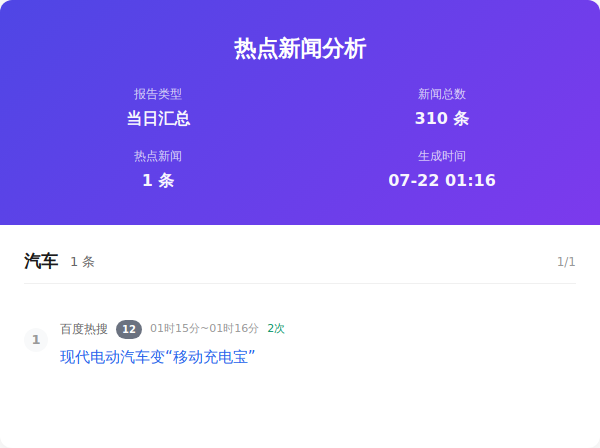
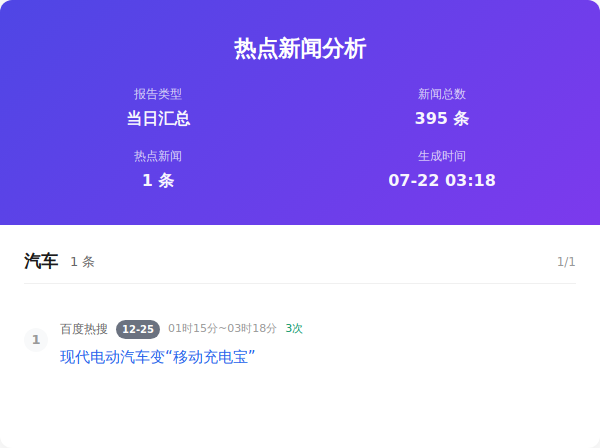
Auto update by GitHub Actions at Wed Jul 22 03:18:41 CST 2026

diff --git a/output/2026年07月22日/html/当日汇总.html b/output/2026年07月22日/html/当日汇总.html
@@ -357,7 +357,7 @@
                     </div>
                     <div class="info-item">
                         <span class="info-label">新闻总数</span>
-                        <span class="info-value">310 条</span>
+                        <span class="info-value">395 条</span>
                     </div>
                     <div class="info-item">
                         <span class="info-label">热点新闻</span>
@@ -365,7 +365,7 @@
                     </div>
                     <div class="info-item">
                         <span class="info-label">生成时间</span>
-                        <span class="info-value">07-22 01:16</span>
+                        <span class="info-value">07-22 03:18</span>
                     </div>
                 </div>
             </div>
@@ -383,7 +383,7 @@
                         <div class="news-number">1</div>
                         <div class="news-content">
                             <div class="news-header">
-                                <span class="source-name">百度热搜</span><span class="rank-num ">12</span><span class="time-info">01时15分~01时16分</span><span class="count-info">2次</span>
+                                <span class="source-name">百度热搜</span><span class="rank-num ">12-25</span><span class="time-info">01时15分~03时18分</span><span class="count-info">3次</span>
                             </div>
                             <div class="news-title"><a href="https://www.baidu.com/s?wd=%E7%8E%B0%E4%BB%A3%E7%94%B5%E5%8A%A8%E6%B1%BD%E8%BD%A6%E5%8F%98%E2%80%9C%E7%A7%BB%E5%8A%A8%E5%85%85%E7%94%B5%E5%AE%9D%E2%80%9D" target="_blank" class="news-link">现代电动汽车变“移动充电宝”</a>
                             </div>

diff --git a/output/2026年07月22日/html/当前榜单汇总.html b/output/2026年07月22日/html/当前榜单汇总.html
@@ -365,7 +365,7 @@
                     </div>
                     <div class="info-item">
                         <span class="info-label">生成时间</span>
-                        <span class="info-value">07-22 01:15</span>
+                        <span class="info-value">07-22 03:18</span>
                     </div>
                 </div>
             </div>
@@ -383,7 +383,7 @@
                         <div class="news-number">1</div>
                         <div class="news-content">
                             <div class="news-header">
-                                <span class="source-name">百度热搜</span><span class="rank-num ">12</span><span class="time-info">01时15分</span>
+                                <span class="source-name">百度热搜</span><span class="rank-num ">12-25</span><span class="time-info">01时15分~03时18分</span><span class="count-info">3次</span>
                             </div>
                             <div class="news-title"><a href="https://www.baidu.com/s?wd=%E7%8E%B0%E4%BB%A3%E7%94%B5%E5%8A%A8%E6%B1%BD%E8%BD%A6%E5%8F%98%E2%80%9C%E7%A7%BB%E5%8A%A8%E5%85%85%E7%94%B5%E5%AE%9D%E2%80%9D" target="_blank" class="news-link">现代电动汽车变“移动充电宝”</a>
                             </div>